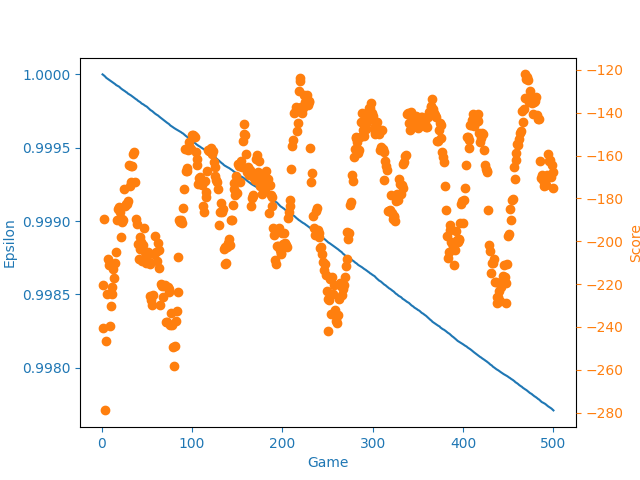
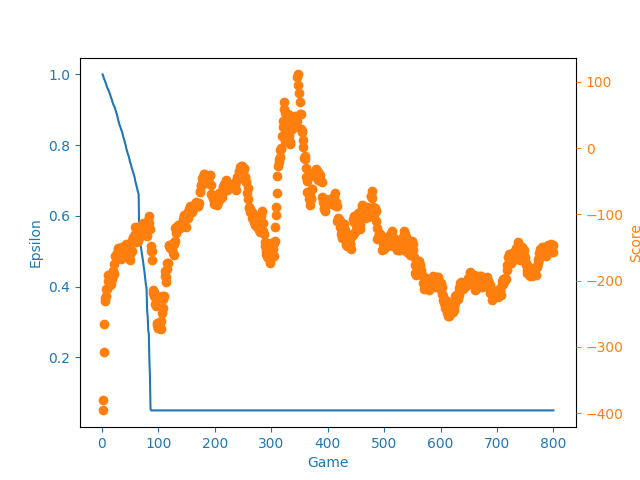
optimize deep Q network

diff --git a/Assets/Scripts/Python/deepQNetwork.py b/Assets/Scripts/Python/deepQNetwork.py
@@ -31,7 +31,7 @@ class DeepQNetwork(nn.Module):
     
 class Agent():
     def __init__(self, gamma, epsilon, lr, input_dims, batch_size, n_actions, 
-                 max_mem_size=100000, eps_end=0.05, eps_decay=5e-5):
+                 max_mem_size=10000, eps_end=0.05, eps_decay=5e-5):
         self.gamma = gamma
         self.epsilon = epsilon
         self.lr = lr
@@ -70,7 +70,7 @@ class Agent():
     
     def choose_action(self, state):
         if np.random.random() > self.epsilon:
-            state = T.tensor(np.array(state)).to(self.Q_eval.device)
+            state = T.tensor(state).to(self.Q_eval.device)
             actions = self.Q_eval.forward(state)
             action = T.argmax(actions).item()
         else:
@@ -114,4 +114,5 @@ class Agent():
         self.epsilon = self.epsilon - self.eps_decay if self.epsilon > self.eps_end else self.eps_end
 
         if self.mem_counter % 1000 == 0:
+            print("mem_counter: ", self.mem_counter)
             self.Q_next.load_state_dict(self.Q_eval.state_dict())

diff --git a/Assets/Scripts/Python/main.py b/Assets/Scripts/Python/main.py
@@ -5,10 +5,10 @@ import numpy as np
 
 if __name__ == '__main__':
     env = gym.make('LunarLander-v2')
-    agent = Agent(gamma=0.99, epsilon=1.0, batch_size=64, n_actions=4,
-                  eps_end=0.01, input_dims=[8], lr=0.0005)
+    agent = Agent(gamma=0.99, epsilon=1.0, batch_size=128, n_actions=4,
+                  eps_end=0.05, input_dims=[8], lr=0.001)
     scores, eps_history = [], []
-    n_games = 500
+    n_games = 800
     
     for i in range(n_games):
         score = 0
@@ -22,6 +22,7 @@ if __name__ == '__main__':
             agent.learn()
             state = next_state
         
+        print(done)
         scores.append(score)
         eps_history.append(agent.epsilon)
         
